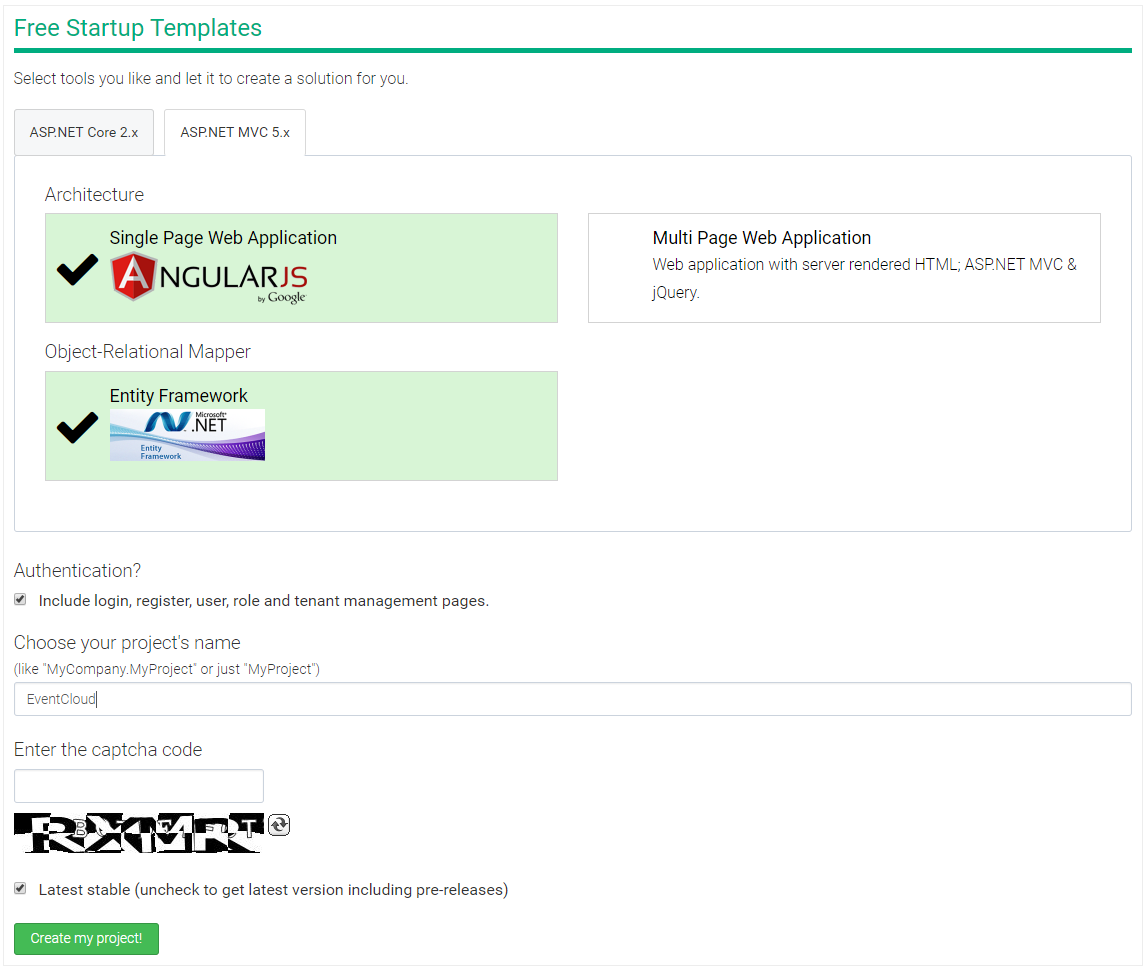
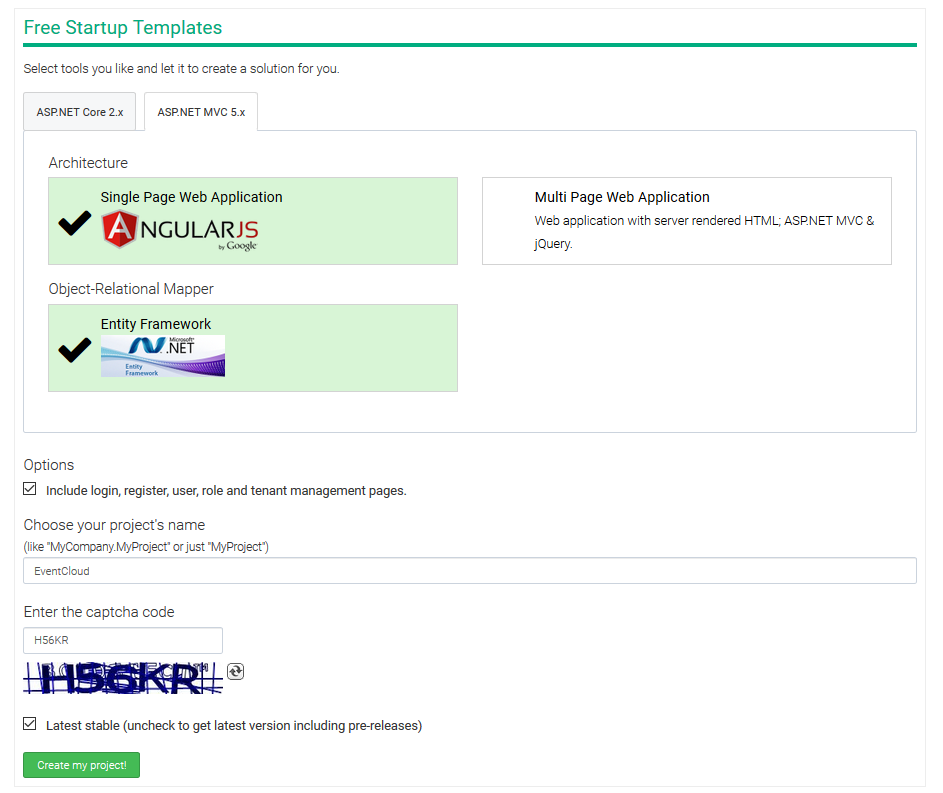
Article revised and updated to the latest

diff --git a/doc/WebSite/Articles/Developing-a-Multi-Tenant-SaaS-Application-with-ASP.NET-MVC-EntityFramework-AngularJs/index.html b/doc/WebSite/Articles/Developing-a-Multi-Tenant-SaaS-Application-with-ASP.NET-MVC-EntityFramework-AngularJs/index.html
@@ -1,5 +1,5 @@
 <ul class="download">
-	<li>Get the source code from the <a href="https://github.com/aspnetboilerplate/eventcloud">Github repository.</a></li>
+	<li>Get the source code from the <a href="https://github.com/aspnetboilerplate/eventcloud/tree/master/mvc-angularjs/src">Github repository.</a></li>
 </ul>
 
 <h2 class="abp-invisible">Contents</h2>
@@ -59,36 +59,36 @@
 
 <p>ASP.NET Boilerplate provides templates to make a project startup easier. We create the <strong>startup template</strong> from <a href="https://aspnetboilerplate.com/Templates"> https://aspnetboilerplate.com/Templates</a>:</p>
 
-<p><img alt="Create template" height="969" src="create-template-4.png" width="1147" /></p>
+<p><img alt="Create template" src="create-template-4.png"/></p>
 
-<p>I selected ASP.NET MVC 5.x, Angularjs and Entity Frameowork including &quot;<strong>Authentication</strong>&quot;. It creates a ready and working solution for us including a <strong>login page</strong>, <strong> navigation</strong> and a bootstrap based <strong>layout</strong>. After download and open the solution with <strong>Visual Studio 2017+</strong>, we see a <strong>layered</strong> solution structure including a unit test project:</p>
+<p>I selected ASP.NET MVC 5.x, Angularjs and Entity Frameowork including &quot;<strong>Options</strong>&quot;. It creates a ready and working solution for us including a <strong>login page</strong>, <strong> navigation</strong> and a bootstrap based <strong>layout</strong>. After downloading and opening the solution with <strong>Visual Studio 2017+</strong>, we see a <strong>layered</strong> solution structure including a unit test project:</p>
 
-<p><img alt="Solution structure" height="167" src="solution-structure.png" width="215" /></p>
+<p><img alt="Solution structure"  src="solution-structure.png"/></p>
 
-<p>First, we <strong>select EventCloud.Web as startup project</strong>. Solution comes with <strong>Entity Framework Code-First Migrations</strong>. So, (after restoring nuget packages) we open the <strong>Package Manager Console</strong> (PMC) and run <strong>Update-Database</strong> command to create the database:</p>
+<p>First, we select <strong>EventCloud.Web</strong> as startup project. Solution comes with <strong>Entity Framework Code-First Migrations</strong>. So, (after restoring nuget packages) we open the <strong>Package Manager Console</strong> (PMC) and run <strong>Update-Database</strong> command to create the database:</p>
 
-<p><img alt="Update database command" height="203" src="pmc-update-database.png" width="743" /></p>
+<p><img alt="Update database command" src="pmc-update-database.png"/></p>
 
 <p>Package Manager Console's <strong>Default project</strong> should be <strong> EventCloud.EntityFramework</strong> (since it contains the migrations). This command creates <strong>EventCloud </strong>database<strong> </strong>in local SQL Server (you can change <strong>connection string</strong> from <strong>web.config</strong> file).</p>
 
 <p>Now, we can run the application. We see the pre-built <strong>login</strong> page. 
 We can enter <strong>default </strong>as tenancy name, <strong>admin </strong>as user and <strong>123qwe </strong>as password to login:</p>
 
-<p><img alt="Initial Login PAge" height="394" src="initial-login-page.png" width="388" /></p>
+<p><img alt="Initial Login Page" src="initial-login-page.png" /></p>
 
-<p>After login, we see the basic bootstrap based layout consists of two pages: <strong>Home</strong> and <strong>About</strong>:</p>
+<p>After login, we see the following pages: <strong>Events</strong> and <strong>About</strong> pages</p>
 
-<p><img alt="Initial layout" height="449" src="initial-layout.png" width="956" /></p>
+<p><img alt="Initial layout" src="initial-layout.png"/></p>
 
-<p>This is a localized UI with a dynamic menu. Angular layout, routing and basic infrastructure are properly working. I got this project as a base for the event cloud project.</p>
+<p>This is a localized UI with a dynamic menu. Angular layout, routing and basic infrastructure are working properly. I take this project as a base for the event cloud project.</p>
 
 <h2 id="ArticleEventCloudProject">Event Cloud Project</h2>
 
-<p>In this article, I will show key parts of the project and explain it. So, please download the sample project, open in Visual Studio 2017+ and run migrations just like above before reading rest of the article (Be sure that there is no database named EventCloud before running the migrations). I will follow some <strong>DDD</strong> (Domain Driven Design) techniques to create <strong>domain (business) layer </strong>and <strong>application layer</strong>.</p>
+<p>In this article, I will show the key parts of the project and explain it. So, please download the sample project, open in Visual Studio 2017+ and run migrations just like above before reading rest of the article (Be sure that there is no database named <strong>EventCloud</strong> before running the migrations). I will follow some <strong>DDD</strong> (Domain Driven Design) techniques to create <strong>domain (business) layer </strong>and <strong>application layer</strong>.</p>
 
 <p>Event Cloud is a free SaaS (multi-tenant) application. We can create a tenant which has it&#39;s own events, users, roles... There are some simple business rules applied while creating, canceling and registering to an event.</p>
 
-<p>So, let&#39;s start to investigate the source code.</p>
+<p>So, let&#39;s start to review the source code.</p>
 
 <h3 id="ArticleEntities">Entities</h3>
 
@@ -218,13 +218,14 @@ public class Event : FullAuditedEntity&lt;Guid&gt;, IMustHaveTenant
     }
 }</pre>
 
-<p>Event entity has not just get/set properties. Actually, it has not <strong>public setters</strong>, setters are protected. It has some <strong>domain logic</strong>. All properties must be changed by the Event entity itself to ensure domain logic is executed.</p>
+<p>Event entity has not just get/set properties. Actually, it has not <strong>public setters</strong>, setters are protected. It has some <strong>domain logic</strong>. All properties must be changed by the Event entity itself to ensure domain logic is being executed.</p>
 
 <p>Event entity&#39;s <strong>constructor</strong> is also <strong>protected</strong>. So, the only way to create an Event is the <strong>Event.Create</strong> method (They can be private normally, but private setters don&#39;t work well with Entity Framework since Entity Framework can not set privates when retrieving an entity from database).</p>
 
 <p>Event implements <strong>IMustHaveTenant</strong> interface. This is an interface of ASP.NET Boilerplate (ABP) framework and ensures that this entity is per tenant. This is needed for <strong>multi-tenancy</strong>. Thus, different tenants will have different events and can not see each other&#39;s events. ABP automatically filters entities of current tenant.</p>
 
-<p>Event class inherits from <strong>FullAuditedEntity</strong> which contains creation, modification and deletion audit columns. FullAuditedEntity also implements <strong>ISoftDelete</strong>, so events can not be deleted from database. They are marked as deleted when you delete it. ABP automatically filters (hides) deleted entities when you query database.</p>
+<p>Event class inherits from <strong>FullAuditedEntity</strong> which contains creation, modification and deletion audit columns. FullAuditedEntity also implements <strong>ISoftDelete</strong>, so events can not be deleted from database. They are marked as deleted when you delete it 
+(soft delete). ABP automatically filters (hides) deleted entities when you query database.</p>
 
 <p>In DDD, entities have domain (business) logic. We have some simple business rules those can be understood easily when you check the entity.</p>
 
@@ -605,7 +606,7 @@ public class EventAppService : EventCloudAppServiceBase, IEventAppService
 
 <p>When we login to the application, we first see a list of events:</p>
 
-<p><img alt="Event list page" height="396" src="event-list-page.png" width="959" /></p>
+<p><img alt="Event list page" src="event-list-page.png"/></p>
 
 <p>We directly use <strong>EventAppService</strong> to get list of events. Here, the Angular controller to create this page:</p>
 
@@ -651,15 +652,15 @@ public class EventAppService : EventCloudAppServiceBase, IEventAppService
     ]);
 })();</pre>
 
-<p>We inject <strong>EventAppService</strong> as &#39;<strong>abp.services.app.event</strong>&#39; into Angular controller. We used <a href="http://www.aspnetboilerplate.com/Pages/Documents/Dynamic-Web-API"> dynamic web api layer</a> feature of ABP. It creates needed Web API controller and Angularjs service <strong>automatically</strong> and <strong>dynamically</strong>. So, we can use application service methods like calling regular javascript functions. So, to call <strong>EventAppService.GetList</strong> C# method, we simple call <strong>eventService.getList</strong> javascript function which returns a <strong>promise</strong> ($q for angular).</p>
+<p>We inject <strong>EventAppService</strong> as &#39;<strong>abp.services.app.event</strong>&#39; into Angular controller. We used <a href="http://www.aspnetboilerplate.com/Pages/Documents/Dynamic-Web-API"> dynamic web api layer</a> feature of ABP. It creates needed Web API controller and Angularjs service <strong>automatically</strong> and <strong>dynamically</strong>. So, we can use application service methods like calling regular javascript functions. So, to call <strong>EventAppService.GetList</strong> C# method, we simply call <strong>eventService.getList</strong> javascript function which returns a <strong>promise</strong> ($q for angular).</p>
 
-<p>We also open a &quot;new event&quot; modal (dialog) when user clicks to &quot;+ New event&quot; button (which triggers vm.openNewEventDialog function). I will not go details of Angular views, since they are simpler and you can check it in source code.</p>
+<p>We also open a &quot;new event&quot; modal (dialog) when user clicks to &quot;+ New event&quot; button (which triggers vm.openNewEventDialog function). I will not go in details of Angular views, since they are simple, you can check it out in the source code.</p>
 
 <h4 id="ArticleEventDetail">Event Detail</h4>
 
-<p>When we click &quot;Details&quot; button for an event, we go to event details with a URL like &quot;http://eventcloud.aspnetboilerplate.com/<strong>#/events/e9499e3e-35c0-492c-98ce-7e410461103f</strong>&quot;. GUID is id of the event.</p>
+<p>When we click &quot;Details&quot; button for an event, we go to event details with a URL like &quot;http://eventcloud.aspnetboilerplate.com/<strong>#/events/b680ad0a-d751-4d85-a7ad-34df5c8a86c2</strong>&quot;. GUID is id of the event.</p>
 
-<p><img alt="Event details" height="473" src="event-detail-page.png" width="742" /></p>
+<p><img alt="Event details" src="event-detail-page.png"/></p>
 
 <p>Here, we see event details with registered users. We can register to the event or cancel registration. This view&#39;s controller is defined in detail.js as shown below:</p>
 
@@ -796,7 +797,7 @@ app.config([
 
 <h2 id="ArticleUnitTests">Unit and Integration Tests</h2>
 
-<p>ASP.NET Boilerplate provides tools to make unit and integration tests easier. You can find all test code from <a href="https://github.com/aspnetboilerplate/eventcloud">source code</a> of the project. Here, I will briefly explain basic tests. Solution includes <strong>EventAppService_Tests</strong> class which tests the EventAppService. See 2 tests from this class:</p>
+<p>ASP.NET Boilerplate provides tools to make unit and integration tests easier. You can find all test code from <a href="https://github.com/aspnetboilerplate/eventcloud/tree/master/mvc-angularjs/src/Tests/EventCloud.Tests">source code</a> of the project. Here, I will briefly explain basic tests. Solution includes <strong>EventAppService_Tests</strong> class which tests the EventAppService. See 2 tests from this class:</p>
 
 <pre lang="js">
 public class EventAppService_Tests : EventCloudTestBase
@@ -864,11 +865,12 @@ public class EventAppService_Tests : EventCloudTestBase
 
 <h2 id="ArticleTokenAuth">Token Based Authentication</h2>
 
-<p>Startup template uses cookie based authentication for browsers. However, if you want to consume Web APIs or application services (those are exposed via <a href="http://www.aspnetboilerplate.com/Pages/Documents/Dynamic-Web-API">dynamic web api</a>) from a mobile application, you probably want a token based authentication mechanism. Startup template includes bearer token authentication infrastructure. <strong>AccountController</strong> in <strong>.WebApi</strong> project contains <strong>Authenticate</strong> action to get the token. Then we can use the token for next requests.</p>
+<p>Startup template uses cookie based authentication for browsers. However, if you want to consume Web APIs or application services (those are exposed via <a href="http://www.aspnetboilerplate.com/Pages/Documents/Dynamic-Web-API">dynamic web api</a>) from a mobile application, you probably want a token based authentication mechanism. Startup template includes bearer token authentication infrastructure. <strong>AccountController</strong> in <strong>*.WebApi</strong> project contains <strong>Authenticate</strong> action to get the token. Then we can use the token for next requests.</p>
 
-<p>Here, <strong>Postman</strong> (chrome extension) will be used to demonstrate requests and responses.</p>
+<p>We will use<strong>
+<a href="https://chrome.google.com/webstore/detail/postman/fhbjgbiflinjbdggehcddcbncdddomop">Postman</a></strong> (chrome extension) to demonstrate requests and responses.</p>
 
-<h3 id="ArticleTokenAuthenticate">Authentication</h3>
+<h3 id="ArticleTokenAuthenticate">Authentication/h3>
 
 <p>Just send a <strong>POST</strong> request to <strong> http://localhost:6334/api/Account/Authenticate</strong> with <strong> Context-Type=&quot;application/json&quot;</strong> header as shown below:</p>
 
@@ -888,7 +890,7 @@ public class EventAppService_Tests : EventCloudTestBase
 
 <h2 id="ArticleSourceCode">Source Code</h2>
 
-<p>You can get the latest source code here <a href="https://github.com/aspnetboilerplate/eventcloud"> https://github.com/aspnetboilerplate/eventcloud</a></p>
+<p>You can get the latest source code from <a href="https://github.com/aspnetboilerplate/eventcloud/tree/master/mvc-angularjs/src"> https://github.com/aspnetboilerplate/eventcloud/tree/master/mvc-angularjs/src</a></p>
 
 <h2 id="ArticleSummary" class="abp-invisible">Summary</h2>
 
